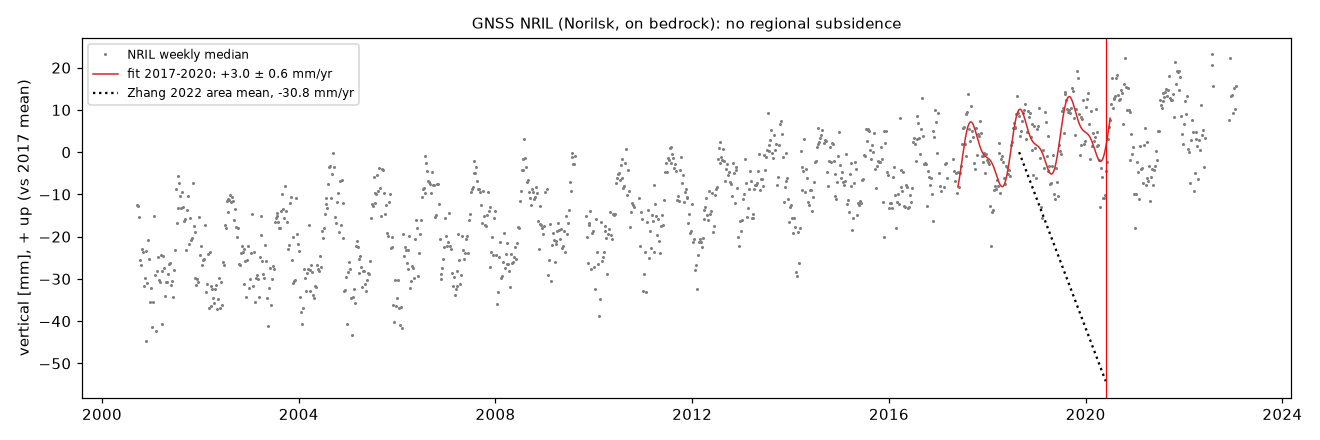
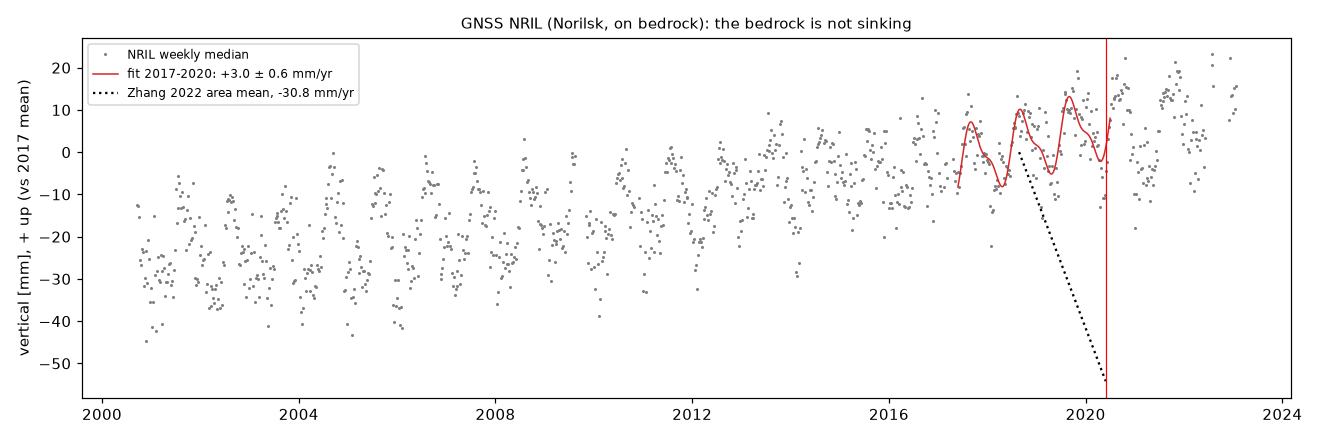
Align final conclusions with the evidence; one winter test number
- RESULTS.md final conclusions: define active layer vs thawing ground
  (permafrost degradation); point 3 limits GNSS to the bedrock; point 4
  says "a hint, not proof" and uses the step-18 test (z -2.75, 1 of 121)
  throughout; the step-19 second draw (z -4.2, n 165) is labelled as such;
  point 5 becomes a reading, not a verdict.
- Same wording in the frontend package texts (12_export_web.py), the GNSS
  figure title and the local viewer.
- README: tank position is confirmed, no longer "unresolved".

Changed region(s): [[0.3417, 0.0295, 0.6833, 0.0886]]

diff --git a/frontend_kit/viewer.html b/frontend_kit/viewer.html
@@ -105,7 +105,7 @@ header p { margin: 2px 0 0; color: var(--ink-2); font-size: 13px; }
       </section>
       <section class="chart">
         <h3>GNSS station NRIL (bedrock, Norilsk)</h3>
-        <p class="sub">Weekly vertical position, mm vs 2017 mean. Rising slightly: no regional subsidence.</p>
+        <p class="sub">Weekly vertical position, mm vs 2017 mean. Rising slightly: the bedrock is not sinking (this says nothing about the lowland ground above it).</p>
         <div class="canvas"><canvas id="cGnss"></canvas></div>
         <details><summary>Data table (yearly means)</summary><div id="tGnss"></div></details>
       </section>

diff --git a/12_export_web.py b/12_export_web.py
@@ -336,15 +336,15 @@ def story(allsum, local, rob, tank18, checks, gnss):
     S = []
     S.append({"id": "question", "headline": "Was the ground under Norilsk sinking, and did that bring down tank 5?",
               "text": "On 29 May 2020 fuel tank no. 5 of the TPP-3 power plant collapsed and ~21,000 t of "
-                      "diesel reached the Ambarnaya river. One study (Zhang et al. 2022) blamed thawing "
-                      "permafrost; the federal inspectorate (Rostekhnadzor, Nov 2020) blamed the pile "
+                      "diesel reached the Ambarnaya river. One study (Zhang et al. 2022) blamed permafrost "
+                      "degradation; the federal inspectorate (Rostekhnadzor, Nov 2020) blamed the pile "
                       "foundation. We measured ground motion with radar satellites 2017-2026.",
               "datasets": ["images/s2_spill_20200531.png", "vectors/sites.geojson"]})
     if allsum and local and rob:
         r = [v["r"] for v in allsum["pairs"].values()]
         z = [v["z"] for v in allsum["pairs"].values()]
         nis = rob["nisar_wetland"]
-        S.append({"id": "thaw", "headline": "Wetlands sink every summer, as thawing ground should, and the rate is not growing",
+        S.append({"id": "thaw", "headline": "Wetlands sink every summer as the active layer thaws, and the rate is not growing",
                   "text": "Compared with their ~2 km surroundings, herbaceous wetlands sink every summer in "
                           "proportion to the square root of accumulated thaw (Stefan's law), with the same "
                           "coefficient in all six summers 2017-2025: no sign of acceleration. The same places "
@@ -398,26 +398,31 @@ def story(allsum, local, rob, tank18, checks, gnss):
             "sections": S, "credit": CREDIT}
 
 
-TANK_HEADLINE = "No ground subsidence under tank 5 in the thaw seasons; a small, local settlement in its last winter"
+TANK_HEADLINE = "No extra settlement of tank 5 in the thaw seasons; a small, local settlement in its last winter"
 TANK_TEXT = ("Relative to the structures around it, tank 5 did not sink in the snow-free summers 2017-2019, "
-             "when thawing ground would settle; the steady -35 mm/yr of Zhang et al. 2022 is not seen. "
-             "In its last winter (Dec 2019 - Apr 2020), while the ground was frozen, tank 5 alone settled "
+             "when the active layer thaws; the steady -35 mm/yr of Zhang et al. 2022 is not seen. "
+             "In its last winter (Dec 2019 - Apr 2020), while the active layer was frozen, tank 5 alone settled "
              "about 1.5 cm relative to its surroundings, step by step from January; none of 20 other tanks "
-             "and tank-row structures did, including the one 117 m away. The result survives every check "
-             "we could run (unwrapping, median, weighting, height error, leaving out any single image). "
-             "It fits a failing foundation; it is strong evidence of movement, not proof of its cause.")
+             "and tank-row structures did, including the one 117 m away. It passes the checks we could "
+             "run (unwrapping, median, weighting, height error, leaving out any single image), but it rests "
+             "on a few low-coherence winter pairs and a snow drift cannot be fully excluded: a hint that "
+             "fits a failing foundation, not proof.")
 TANK_CAVEATS = ("Dry snow delays the radar (~1 mm per mm of snow water): a drift at the tank could mimic "
                 "settlement, although the steps do not follow blowing-snow episodes and the neighbouring tank "
                 "did not move; tanks elsewhere show ~1 cm excursions in other periods (snow onset, autumn 2019). "
                 "One track, one sensor, 20 m pixels (no tilt); whole-tank motion cannot be compared with damage "
                 "thresholds, which refer to differences within one tank.")
-VERDICT_HEADLINE = "Foundation failure, not ground thaw"
-VERDICT_TEXT = ("The radar shows no thaw-driven settlement of the ground at the tank or the plant before the "
-                "collapse, and no regional subsidence of the bedrock. This agrees with the inspectorate's "
-                "finding: pile cap and piles too weak (33 piles failed in a chain, ~30% not on rock), tank "
-                "returned to service in 2019 without notifying the regulator, no permafrost degradation found. "
-                "Permafrost thaw is real in Norilsk - wetlands sink every summer - but it is not what the data "
-                "show at tank 5. Warming of the frozen ground around the piles cannot be ruled out.")
+VERDICT_HEADLINE = "A failing foundation fits better than thawing ground"
+VERDICT_TEXT = ("Thawing ground here means permafrost degradation: the active layer thawing deeper than "
+                "usual into the ice-rich top of the permafrost, which would show as extra settlement in the "
+                "thaw season. Before the collapse the radar shows none at the tank or the plant, and a small "
+                "settlement of the tank itself in its last winter, while the active layer was frozen. This is "
+                "consistent with the inspectorate's finding, which remains the main evidence for the cause: "
+                "pile cap and piles too weak (33 piles failed in a chain, ~30% not on rock), tank returned to "
+                "service in 2019 without notifying the regulator, no permafrost degradation found. Seasonal "
+                "thaw of the active layer is real in Norilsk - wetlands sink every summer - but it is not what "
+                "the data show at tank 5. Warming of the frozen ground around the piles, and a uniform "
+                "settlement of the whole area, cannot be ruled out.")
 LIMITS_TEXT = ("No radar data over Norilsk in 2022-2024; motion of the lowland relative to bedrock is "
                "atmosphere-dominated; C-band loses the signal at snowmelt and snow onset, so winter and "
                "summer cannot be linked; settlement within one tank (tilt) is below the 20 m resolution; "
@@ -459,7 +464,7 @@ def app_stories(man, allsum, tank18, gnss):
     if allsum:
         out.append({
             "id": "norilsk-permafrost-thaw", "regionId": "norilsk",
-            "title": "Thawing ground: Norilsk's wetlands sink every summer", "category": "water",
+            "title": "Seasonal thaw: Norilsk's wetlands sink every summer", "category": "water",
             "firstYear": 2020, "mapEndYear": 2026, "dateLabel": "Radar summers 2017–2025 · NISAR 2026",
             "latitude": 69.38, "longitude": 87.8, "cameraAltitude": 60000, "beforeYear": 2020, "afterYear": 2025,
             "summary": ("Sentinel-1 radar shows Norilsk's herbaceous wetlands sinking a few millimetres more than "
@@ -487,11 +492,11 @@ def app_stories(man, allsum, tank18, gnss):
             "latitude": POINTS["tank5_zhang2022"][0], "longitude": POINTS["tank5_zhang2022"][1],
             "cameraAltitude": 6000, "beforeYear": 2020, "afterYear": 2021,
             "summary": ("Radar shows tank 5 did not sink relative to the structures around it in the snow-free "
-                        f"summers 2017–2019, when thawing ground settles{bedrock}. In its last winter, with the "
-                        f"ground frozen, the tank alone settled about {abs(pv[last]['value']):.0f} mm "
+                        f"summers 2017–2019, when the active layer thaws{bedrock}. In its last winter, with the "
+                        f"active layer frozen, the tank alone settled about {abs(pv[last]['value']):.0f} mm "
                         f"(comparable targets {pv[last]['null_mean']:+.1f} ± {pv[last]['null_std']:.1f} mm); "
                         "none of 20 other tanks did. This fits the inspectorate's finding of a failing pile "
-                        "foundation, not permafrost thaw."),
+                        "foundation better than permafrost degradation."),
             "lookFor": ("The marker is tank 5 in the fuel-tank row north-west of TPP-3. Compare the 2020 and 2021 "
                         "mosaics; the radar measurements are in the Norilsk subsidence dataset when connected."),
             "limitation": ("Evidence of movement, not proof of its cause: snow drifts can mimic settlement in "

diff --git a/20_gnss_nril.py b/20_gnss_nril.py
@@ -96,7 +96,7 @@ def main():
     ax.plot([t0, pd.Timestamp("2020-05-29")], [0, -30.8 * 1.76], "k:", label="Zhang 2022 area mean, -30.8 mm/yr")
     ax.axvline(pd.Timestamp("2020-05-29"), color="red", lw=0.8)
     ax.set_ylabel("vertical [mm], + up (vs 2017 mean)")
-    ax.set_title("GNSS NRIL (Norilsk, on bedrock): no regional subsidence", fontsize=10)
+    ax.set_title("GNSS NRIL (Norilsk, on bedrock): the bedrock is not sinking", fontsize=10)
     ax.legend(fontsize=8)
     fig.tight_layout()
     fig.savefig(OUTPUTS / "fig_gnss_nril.png", dpi=110)

diff --git a/RESULTS.md b/RESULTS.md
@@ -9,52 +9,72 @@ analysis (steps 18-20).
 
 ## Final conclusions
 
-**Question.** Is the permafrost ground under Norilsk sinking, and did that
-bring down fuel tank no. 5 of TPP-3 on 29 May 2020 (thaw, as Zhang et al.
-2022 proposed), or did the tank's foundation fail (as the federal
-inspectorate Rostekhnadzor concluded in Nov 2020)?
+**Question.** Did the ground under fuel tank no. 5 of TPP-3 sink because the
+permafrost was degrading, and did that bring the tank down on 29 May 2020
+(Zhang et al. 2022), or did the tank's pile foundation fail (the federal
+inspectorate Rostekhnadzor, Nov 2020)?
 
-1. **Thaw subsidence is real, local and steady.** Herbaceous wetlands sink a
-   few mm more than their ~2 km surroundings every summer, following √TDD
-   (Stefan) with the same coefficient in all six summers 2017-2025
-   (−0.195 ± 0.009 mm/√(°C·day), constant p = 0.07, no acceleration); the
-   pattern repeats between any two summers (r 0.15-0.43, z ≥ 6.3) and NISAR
-   L-band sees it in 2026. Lowland motion relative to bedrock is not
-   measurable (atmosphere).
+**Terms.** Permafrost stays frozen all year. Above it, the active layer (the
+top metre or two) thaws every summer and refreezes every winter: the surface
+settles in summer and rises again in winter. *Thawing ground* below means
+permafrost degradation: the active layer thawing deeper than usual into the
+ice-rich top of the permafrost, which shows as extra settlement late in the
+thaw season (Jul-Oct) that does not recover. All InSAR numbers are relative
+to the surroundings of each target.
+
+1. **Seasonal thaw of the active layer is real, local and steady.**
+   Herbaceous wetlands sink a few mm more than their ~2 km surroundings every
+   summer, following √TDD (Stefan) with the same coefficient in all six
+   summers 2017-2025 (−0.195 ± 0.009 mm/√(°C·day), constant p = 0.07, no
+   acceleration); the pattern repeats between any two summers (r 0.15-0.43,
+   z ≥ 6.3) and NISAR L-band sees it in 2026. Lowland motion relative to
+   bedrock is not measurable (atmosphere).
 2. **Industry is not sinking more than other ground.** Industrial zones are
    indistinguishable from random lowland (z 0.24 / 0.07); TPP-3 never sinks
-   more than its surroundings (2017-2026).
-3. **No ground subsidence under tank 5 when thaw acts.** In the snow-free
-   summers 2017-2019 and the last thaw season (Jun-Nov 2019) the tank moved
-   like comparable targets (|z| ≤ 0.7); Zhang's steady −35 mm/yr is not seen
-   relative to the surroundings. The bedrock under Norilsk (GNSS NRIL) rose
-   slightly (+3.0 ± 0.6 mm/yr 2017-2020): no regional subsidence.
-4. **The tank alone moved in its last winter.** From December 2019 to
-   March-April 2020, with the ground frozen, tank 5 settled ~14 mm relative to
-   its surroundings, step by step from January (z −4.2 against 165 comparable
-   targets; none of 20 other tanks and tank-row structures, including the one
-   117 m away, did). It survives every check: no unwrapping errors, median
-   −13.8, coherence-weighted −15.1, height-error-corrected −13.9, any single
-   pair left out −7.8 to −20.5 mm; it does not follow blowing-snow episodes.
-5. **Verdict: foundation failure, not ground thaw.** The radar shows no
-   thaw-driven settlement before the collapse and a settlement of the tank
-   itself in its final months, while the ground was frozen. This matches the
-   inspection (pile cap and piles too weak, 33 piles failed in a chain, ~30 %
-   not on rock, tank returned to service in 2019 without notifying the
-   regulator, no permafrost degradation found).
+   more than its surroundings in the summers 2017-2026.
+3. **No extra settlement of tank 5 in the thaw seasons.** In the snow-free
+   summers 2017-2019 and the last thaw season (Jun-Nov 2019), when the active
+   layer thaws, the tank moved like comparable targets (|z| ≤ 0.7; detectable:
+   ~1 cm per season); Zhang's steady −35 mm/yr is not seen relative to the
+   surroundings. The GNSS station NRIL shows that the bedrock under Norilsk
+   did not sink (+3.0 ± 0.6 mm/yr 2017-2020); it says nothing about the
+   lowland ground above the bedrock, and a uniform settlement of the whole
+   area around the tank would be invisible to these relative measures.
+4. **In its last winter the tank alone settled, by a small amount.** From
+   6 Dec 2019 to 4 Apr 2020, with the active layer frozen, tank 5 settled
+   14.4 mm relative to its surroundings, step by step from January. Only 1 of
+   121 comparable targets (bright, same winter coherence, 1.5-5.5 km away)
+   deviated as much (z −2.75, p ≈ 0.01); none of 20 other tanks and tank-row
+   structures did, including the one 117 m away. It passes the checks we could
+   run on the existing data (no unwrapping errors; median −13.8,
+   coherence-weighted −15.1, height-error-corrected −13.9 mm; any single pair
+   left out −7.8 to −20.5 mm) and does not follow blowing-snow episodes. But
+   it rests on a few low-coherence winter pairs, single tanks elsewhere show
+   ~1 cm excursions in other periods, and a snow drift cannot be fully
+   excluded: a hint, not proof.
+5. **Reading: this fits a failing foundation better than thawing ground.**
+   Before the collapse the radar shows no extra thaw-season settlement at the
+   tank or the plant, which thawing ground (as defined above) would produce;
+   it shows a small settlement of the tank itself in its final months, while
+   the active layer was frozen. This is consistent with the inspection (pile
+   cap and piles too weak, 33 piles failed in a chain, ~30 % not on rock,
+   tank returned to service in 2019 without notifying the regulator, no
+   permafrost degradation found), which remains the main evidence for the
+   cause.
 
 **What remains open.** Warming (not thawing) of the frozen ground around the
-piles, which peaks at 6-12 m in winter, cannot be excluded; a snow drift
-cannot be fully excluded (tanks elsewhere show ~1 cm excursions in other
-periods); tilt within the tank is below the 20 m resolution; uniform
-settlement of a whole area is invisible to relative measures; one satellite
-track, no other radar archive available for 2019-20 (ASF has no ALOS-2 there).
+piles cannot be excluded: it weakens the piles without any thaw settlement,
+and at 6-12 m depth the yearly temperature peak arrives in winter. Also open:
+a snow drift at the tank (point 4); tilt within the tank, below the 20 m
+resolution; a uniform settlement of the whole area, invisible to relative
+measures; one satellite track, with no other radar archive for 2019-20 (ASF
+has no ALOS-2 there).
 
 ---
 
 # Full record
 
-> **v1 in one paragraph.** The local wetland subsidence survives every test
+> **v1 in one paragraph.** The local wetland subsidence passes every test
 > we could run on the existing data (processing variants, spatial-shift null
 > z = −6 to −9, phase closure, short- vs long-pair networks, DEM error, soil
 > moisture), follows √TDD with the **same coefficient in both summers**
@@ -71,9 +91,9 @@ track, no other radar archive available for 2019-20 (ASF has no ALOS-2 there).
 > ground under the tank (Zhang et al. 2022) is not supported. In the last
 > winter before the collapse (Dec 2019 - Apr 2020) the tank settled ~1.5 cm
 > relative to the plant (z = −2.75, p ≈ 0.01), progressively, while the
-> ground was frozen: consistent with a failing foundation (Rostekhnadzor),
-> but a hint, not proof (few noisy pairs, possible snow drift or partial
-> unwrapping error; see "Weak points"). Warming of the frozen ground around
+> active layer was frozen: consistent with a failing foundation (Rostekhnadzor),
+> but a hint, not proof (few noisy pairs, possible snow drift; step 19 rules
+> out unwrapping errors; see "Weak points"). Warming of the frozen ground around
 > the piles and uniform settlement of the whole area cannot be ruled out.
 
 ## One-paragraph answer
@@ -212,6 +232,8 @@ Sentinel-1. Track 6 descending covers only the south-west half of the AOI.
    the foundation of tank no. 5. The two literature coordinates for the tank
    could not be resolved with Sentinel-1 amplitude (snowmelt in spring,
    no clear disappearing target in summer); we use the OSM TPP-3 site.
+   (v0. Superseded: at 20 m, step 18 locates the tank by its amplitude loss
+   after the collapse, confirmed on Google Earth.)
 6. **Two summers.** 2020 was exceptionally warm (MAAT −3.7 °C, TDD 1752),
    2025 colder (−7.4 °C, 1435). Two summers can show a zone difference, not a
    climate trend.
@@ -425,7 +447,7 @@ dominated by snow and atmosphere (our steps 15-17).
   thaw seasons 2017-2019 (Jun-Nov 2019: −1 mm). The one anomalous movement
   happened in Dec-Apr, when the active layer is frozen, and was confined to
   one tank, not the ground of the tank farm.
-- *Foundation of tank 5*: supported. A ~1.5 cm (up to ~2 cm in the
+- *Foundation of tank 5*: consistent with the data. A ~1.5 cm (up to ~2 cm in the
   strongest pixel) settlement of that tank relative to the plant, building up
   over the 4-5 months before the collapse, matches Rostekhnadzor's finding
   (insufficient bearing capacity of the pile cap and piles, chain failure of
@@ -477,10 +499,10 @@ depots 9-13 km east); tank 5's numbers are unchanged.
 | Unwrapping error in the 3x3 mean | triplet closures, winter 2019-20 | none over half a cycle (tank window 0/12, its pixels 0/43; null windows 0.2 %); no pixel off by a cycle |
 | Few noisy pairs | median window; coherence-weighted SBAS; leave one pair out | Dec 6 → Apr 4: −13.8 / −15.1 mm; any single pair out: −7.8 to −20.5 (→ Mar 11: −12.8 to −15.3) |
 | DEM (height) error | linear trend + per-date baseline term | Δh 9.8 m, corrected −13.9 mm |
-| Null not tank-like | 19 depot tanks + tank-row structures | same winter: depot tanks −2.9 ± 4.8 mm (n 19), neighbour 117 m SE +1.6; 0 of 20 as low as tank 5; generic null (tank 5's coherence) +2.1 ± 3.9, z −4.2 |
+| Null not tank-like | 19 depot tanks + tank-row structures | same winter: depot tanks −2.9 ± 4.8 mm (n 19), neighbour 117 m SE +1.6; 0 of 20 as low as tank 5. The wider crop also gives a second random draw of 200 comparable targets (same rule as step 18): +2.1 ± 3.9 mm (n 165), none as low, z −4.2. The z depends on the draw, so the headline keeps the more conservative step-18 value (z −2.75, 1 of 121) |
 | Snow drift | ERA5 snowfall and blowing-snow hours between acquisitions | 2019-20 was the snowiest (196 cm) and windiest (1096 h, from S) of the three winters, but the tank's steps do not follow blowing snow (r −0.09; 2018-19: r 0.56 with no drop) and the neighbour in the same row did not move |
 | Position | Google Earth (user) + amplitude loss | confirmed |
-| Regional subsidence | GNSS NRIL on bedrock (step 20) | +1.65 mm/yr 2000-2023, +3.0 ± 0.6 mm/yr 2017-2020, seasonal ±8 mm |
+| Bedrock motion | GNSS NRIL on bedrock (step 20) | +1.65 mm/yr 2000-2023, +3.0 ± 0.6 mm/yr 2017-2020, seasonal ±8 mm: the bedrock is not sinking; says nothing about the lowland ground above it |
 
 Not exclusive to tank 5 in other periods: at snow onset 2017 the whole TPP-3
 row dropped 11-20 mm (tank 5 −13.7), and the depot tanks moved −12.7 ± 4.1 mm

diff --git a/README.md b/README.md
@@ -188,10 +188,11 @@ Findings: RESULTS.md, section "v1 robustness".
 
 ## Before analysis
 
-- `config.py`: the HPP-3 tank location differs between sources (two points
-  kept, unresolved; see `tank_amplitude.py`). Best estimate: `tank5_zhang2022`
-  (Zhang et al. 2022, Remote Sens. 14, 5036), 0.35 km from the TPP-3 polygon;
-  `hpp3_tank_b` is the generic Wikipedia coordinate, 9 km away. `tundra_control` is still a
+- `config.py`: two tank coordinates from the literature. `tank5_zhang2022`
+  (Zhang et al. 2022, Remote Sens. 14, 5036), 0.35 km from the TPP-3 polygon,
+  is the tank: confirmed on Google Earth and by its radar amplitude loss after
+  the collapse (step 18). `hpp3_tank_b` is the generic Wikipedia coordinate,
+  9 km away. `tundra_control` is still a
   placeholder: choose it from `tundra_candidate_v2.tif`.
 - `plateau_reference` sits at the east edge of BBOX: most of the plateau is
   outside the AOI. Extending BBOX east (~88.9 E) is likely free in bursts.
